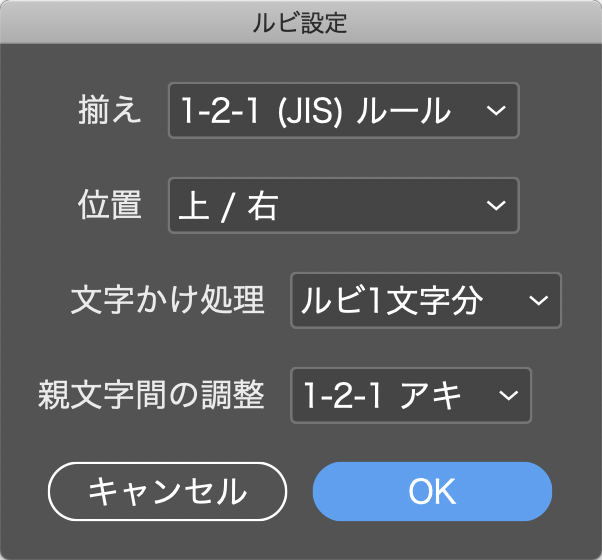
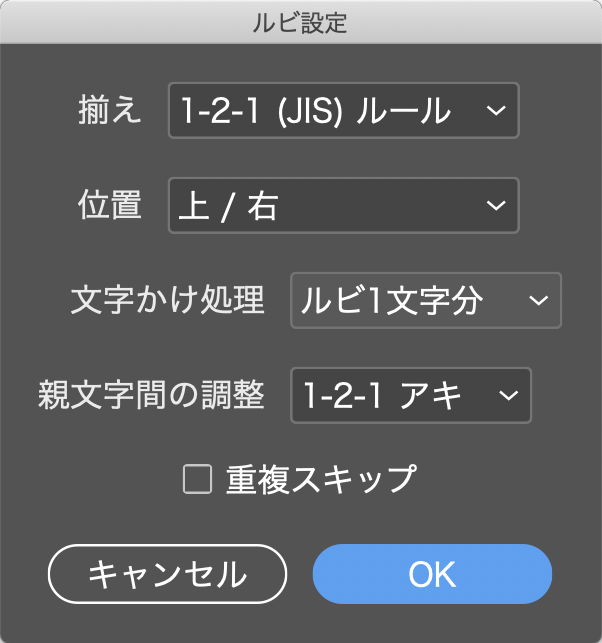
skipmode追加

diff --git a/dist/CSVRubyProcessor.jsx b/dist/CSVRubyProcessor.jsx
@@ -15,7 +15,14 @@
 var NAME = 'CSVRubyProcessor';
 
 function loadconfig(name, def) {
-  var scriptFile = new File($.fileName);
+  var scriptFile = function () {
+    try {
+      return app.activeScript;
+    } catch (err) {
+      return File(err.fileName);
+    }
+  }();
+
   var configFile = new File(scriptFile.parent + '/RUBY_PROCESSOR.conf');
 
   if (configFile.exists) {
@@ -213,9 +220,13 @@ function applyRuby(chars, ruby, group, option) {
 }
 
 var RubySetting = function () {
-  function RubySetting(parent, def) {
+  function RubySetting(parent, def, skipmode) {
     if (def === void 0) {
       def = {};
+    }
+
+    if (skipmode === void 0) {
+      skipmode = false;
     }
 
     this.parent = parent;
@@ -252,6 +263,15 @@ var RubySetting = function () {
     this.parentSpacingList.group.preferredSize.width = 210;
     this.xOffset = convertInt(def.xOffset);
     this.yOffset = convertInt(def.yOffset);
+
+    if (skipmode) {
+      this.inputSkipmode = this.parent.add('checkbox', undefined, '重複スキップ');
+      this.inputSkipmode.value = def.skipmode;
+    } else {
+      this.inputSkipmode = {
+        value: false
+      };
+    }
   }
 
   var _proto = RubySetting.prototype;
@@ -265,6 +285,10 @@ var RubySetting = function () {
       xOffset: this.xOffset,
       yOffset: this.yOffset
     };
+  };
+
+  _proto.isSkip = function isSkip() {
+    return this.inputSkipmode.value;
   };
 
   return RubySetting;
@@ -327,13 +351,14 @@ var DEFAULT = loadconfig(NAME, {
   overhang: 1,
   parentspacing: 2,
   xOffset: 0,
-  yOffset: 0
+  yOffset: 0,
+  skipmode: false
 });
 app.doScript(main, ScriptLanguage.JAVASCRIPT, [], UndoModes.FAST_ENTIRE_SCRIPT);
 
 function main() {
   var dialog = new Window('dialog', 'ルビ設定');
-  var rubySettings = new RubySetting(dialog, DEFAULT);
+  var rubySettings = new RubySetting(dialog, DEFAULT, true);
   new ActionButtons(dialog, {
     width: 96,
     height: 24
@@ -345,6 +370,7 @@ function main() {
   }
 
   var rubyOption = rubySettings.getValues();
+  var skipmode = rubySettings.isSkip();
   var fileObj = File.openDialog('', function () {
     if (/^windows/i.test($.os)) {
       return '*.csv';
@@ -451,13 +477,26 @@ function main() {
       }
 
       if (!target) break;
+      var rubyFlag = false;
 
-      if (!target.rubyFlag[0]) {
+      if (skipmode) {
+        for (var k = 0; k < target.characters.length; k++) {
+          rubyFlag = target.characters[k].rubyFlag;
+
+          if (rubyFlag instanceof Array) {
+            rubyFlag = rubyFlag[0];
+          }
+
+          if (rubyFlag) break;
+        }
+      }
+
+      if (!rubyFlag) {
         if (data.ruby.length > 1) {
-          for (var k = 0; k < data.ruby.length; k++) {
-            if (!data.ruby[k]) continue;
-            if (k === target.length) break;
-            applyRuby(target.characters[k], data.ruby[k], false, rubyOption);
+          for (var _k = 0; _k < data.ruby.length; _k++) {
+            if (!data.ruby[_k]) continue;
+            if (_k === target.length) break;
+            applyRuby(target.characters[_k], data.ruby[_k], false, rubyOption);
           }
         } else {
           applyRuby(target, data.ruby[0], target.length > 1, rubyOption);

diff --git a/src/CSVRubyProcessor.js b/src/CSVRubyProcessor.js
@@ -10,6 +10,7 @@ const DEFAULT = loadconfig(NAME, {
 	parentspacing: 2,
 	xOffset: 0,
 	yOffset: 0,
+	skipmode: false,
 })
 
 app.doScript(main, ScriptLanguage.JAVASCRIPT, [], UndoModes.FAST_ENTIRE_SCRIPT)
@@ -17,7 +18,7 @@ app.doScript(main, ScriptLanguage.JAVASCRIPT, [], UndoModes.FAST_ENTIRE_SCRIPT)
 function main() {
 	const dialog = new Window('dialog', 'ルビ設定')
 
-	const rubySettings = new RubySetting(dialog, DEFAULT)
+	const rubySettings = new RubySetting(dialog, DEFAULT, true)
 
 	new ActionButtons(dialog, {
 		width: 96,
@@ -32,6 +33,7 @@ function main() {
 	}
 
 	const rubyOption = rubySettings.getValues()
+	const skipmode = rubySettings.isSkip()
 
 	// ファイルオープン
 	const fileObj = File.openDialog('', (() => {
@@ -149,8 +151,24 @@ function main() {
 
 			if (!target) break
 
+			let rubyFlag = false
+
+			if (skipmode) {
+				// ターゲット文字列内にルビが振られた文字が1文字でもあるか
+				for (let k = 0; k < target.characters.length; k++) {
+					rubyFlag = target.characters[k].rubyFlag
+
+					if (rubyFlag instanceof Array) {
+						// itemByRange で取得した character のプロパティは配列
+						rubyFlag = rubyFlag[0]
+					}
+
+					if (rubyFlag) break
+				}
+			}
+
 			// すでにルビが振られているなら処理しない
-			if (!target.rubyFlag[0]) {
+			if (!rubyFlag) {
 				if (data.ruby.length > 1) {
 					for (let k = 0; k < data.ruby.length; k++) {
 						if (!data.ruby[k]) continue

diff --git a/dist/pixivRubyConverter.jsx b/dist/pixivRubyConverter.jsx
@@ -15,7 +15,14 @@
 var NAME = 'pixivRubyConverter';
 
 function loadconfig(name, def) {
-  var scriptFile = new File($.fileName);
+  var scriptFile = function () {
+    try {
+      return app.activeScript;
+    } catch (err) {
+      return File(err.fileName);
+    }
+  }();
+
   var configFile = new File(scriptFile.parent + '/RUBY_PROCESSOR.conf');
 
   if (configFile.exists) {
@@ -137,9 +144,13 @@ function applyRuby(chars, ruby, group, option) {
 }
 
 var RubySetting = function () {
-  function RubySetting(parent, def) {
+  function RubySetting(parent, def, skipmode) {
     if (def === void 0) {
       def = {};
+    }
+
+    if (skipmode === void 0) {
+      skipmode = false;
     }
 
     this.parent = parent;
@@ -176,6 +187,15 @@ var RubySetting = function () {
     this.parentSpacingList.group.preferredSize.width = 210;
     this.xOffset = convertInt(def.xOffset);
     this.yOffset = convertInt(def.yOffset);
+
+    if (skipmode) {
+      this.inputSkipmode = this.parent.add('checkbox', undefined, '重複スキップ');
+      this.inputSkipmode.value = def.skipmode;
+    } else {
+      this.inputSkipmode = {
+        value: false
+      };
+    }
   }
 
   var _proto = RubySetting.prototype;
@@ -189,6 +209,10 @@ var RubySetting = function () {
       xOffset: this.xOffset,
       yOffset: this.yOffset
     };
+  };
+
+  _proto.isSkip = function isSkip() {
+    return this.inputSkipmode.value;
   };
 
   return RubySetting;

diff --git a/src/modules/rubyUtils.js b/src/modules/rubyUtils.js
@@ -18,7 +18,7 @@ function applyRuby(chars, ruby, group, option) {
 }
 
 class RubySetting {
-	constructor(parent, def = {}) {
+	constructor(parent, def = {}, skipmode = false) {
 		this.parent = parent
 
 		this.alignList = new NameValueList(this.parent, {
@@ -58,6 +58,13 @@ class RubySetting {
 
 		this.xOffset = convertInt(def.xOffset)
 		this.yOffset = convertInt(def.yOffset)
+
+		if (skipmode) {
+			this.inputSkipmode = this.parent.add('checkbox', undefined, '重複スキップ')
+			this.inputSkipmode.value = def.skipmode
+		} else {
+			this.inputSkipmode = { value: false }
+		}
 	}
 	getValues() {
 		return {
@@ -68,6 +75,9 @@ class RubySetting {
 			xOffset: this.xOffset,
 			yOffset: this.yOffset,
 		}
+	}
+	isSkip() {
+		return this.inputSkipmode.value
 	}
 }
 

diff --git a/README.md b/README.md
@@ -24,9 +24,9 @@ dist以下のファイルをScripts Panelフォルダにコピーしてくださ
 
 ルビ情報を書いたCSVファイルを読み込んで、一括でルビを設定します。ロックされたレイヤー、非表示のレイヤーは対象としません。
 
-<img src="images/dialog.png" width="301" alt="">
-
 起動すると、まずルビの書式設定が開きます。「OK」を押すと、次にCSVファイルの選択画面が出るので、ルビ情報のCSVを選択してください。
+
+<img src="images/dialog.png" width="301" alt="">
 
 CSVのデータは以下の構造になっています。
 
@@ -40,7 +40,10 @@ CSVのデータは以下の構造になっています。
 	<dt>文脈</dt>
 	<dd>省略可。同じ漢字でも送り仮名によって読みが変わるなど、特定の文脈を正規表現で指定できます。詳細は後述。</dd>
 	<dt>フラグ</dt>
-	<dd>省略可。0〜2の値を設定します。0 : すべての対象にルビを振る, 1 : ドキュメント内で最初の対象のみにルビを振る, 2 : ページ内で最初の対象のみにルビを振る</dd>
+	<dd>省略可。0〜2の値を設定します。<br>
+  0 : すべての対象にルビを振る（デフォルト）<br>
+  1 : ドキュメント内で最初の対象のみにルビを振る<br>
+  2 : ページ内で最初の対象のみにルビを振る</dd>
 </dl>
 
 #### グループルビとモノルビ
@@ -68,11 +71,24 @@ CSVのデータは以下の構造になっています。
 *愛,あい,愛(して|する)*  
 *愛,いと,愛し[いく]*
 
+この例では、「歩く」や「歩けない」の「歩」には「ある」のルビが振られ、「歩みを進める」や「歩もうと」には「あゆ」のルビが振られます。
+また、「愛してくれ」「君を愛する」の「愛」には「あい」、「愛しい人よ」「愛しくて」には「いと」が振られます。
+
+### 「重複スキップ」について
+
+ルビ振りはCSVファイルの上の行から順に処理されます。デフォルトでは同じ文字に複数のルビ指定がある場合、後のものでルビを上書きします。
+
+「重複スキップ」にチェックを入れると、すでにルビが指定されている文字・文字列には、ルビを振りません（処理をスキップする）。
+
+文字列にルビを指定する場合も、文字列内に1文字でもルビが振られている場合はこれをスキップします。
+
+また「フラグ」に1か2を指定していると、対象にすでにルビが振られている場合にスキップされて一つもルビが振られなくなることがあるので、注意してください。
+
 ## pixiv Ruby Converter
 
 pixivの小説投稿で使われているルビ書式 [[rb: xxxx > yyyy]] をInDesignのルビに変換します。pixivの編集画面からコピペしたときに使ってください。
 
-設定項目は「CSVルビ一括設定」と同じです。ロックされたレイヤー、非表示のレイヤーは対象としません。また、すべてグループルビになります。
+書式設定項目は「CSVルビ一括設定」と同じです。ロックされたレイヤー、非表示のレイヤーは対象としません。また、すべてグループルビになります。
 
 ## Default Settings
 
